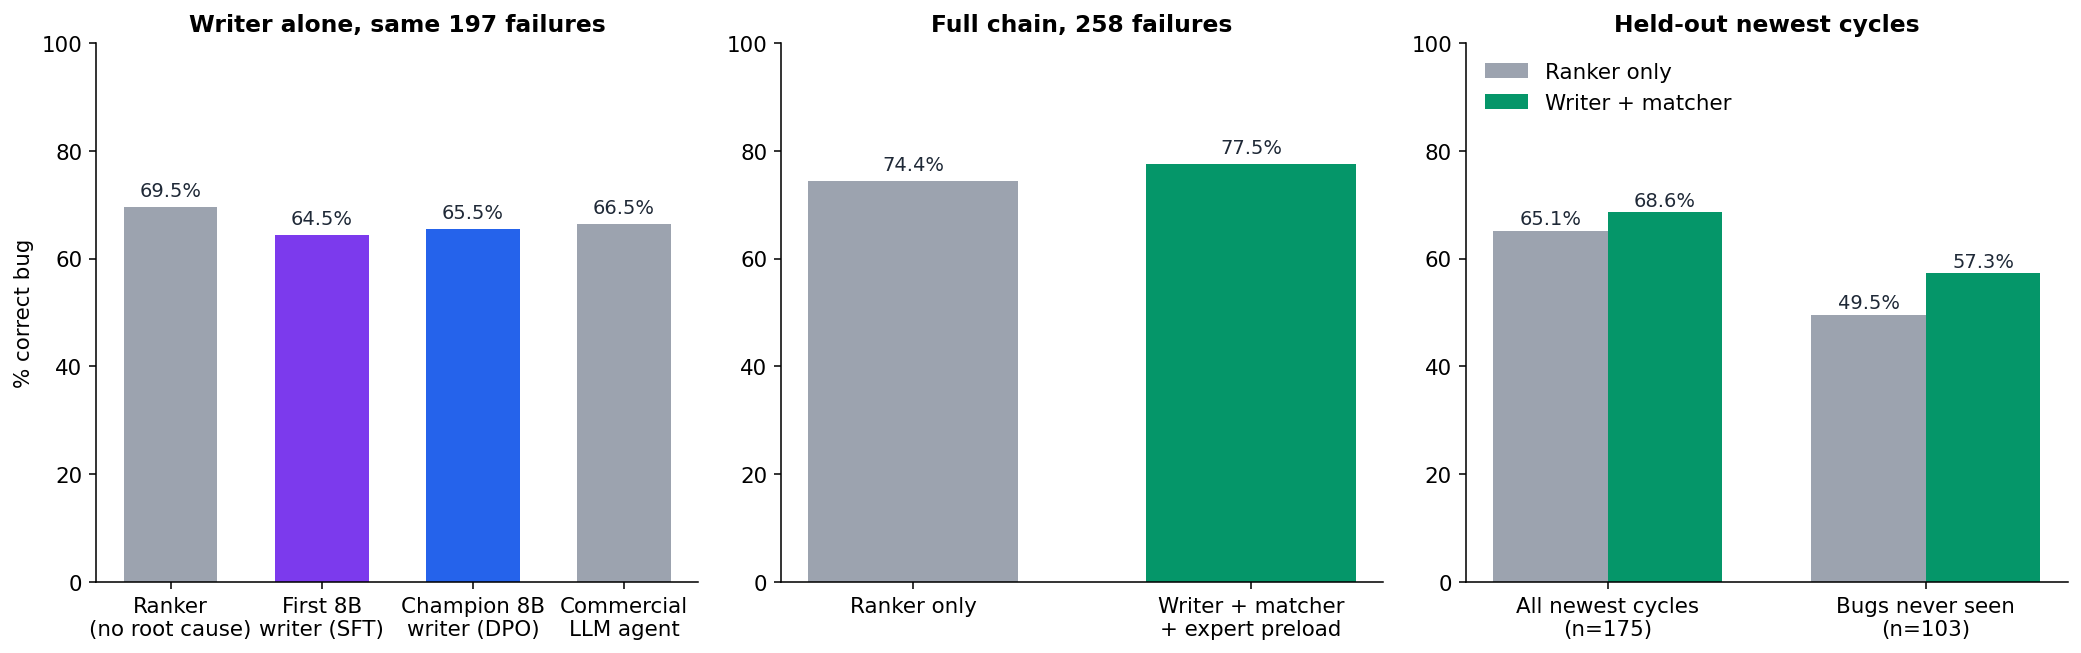
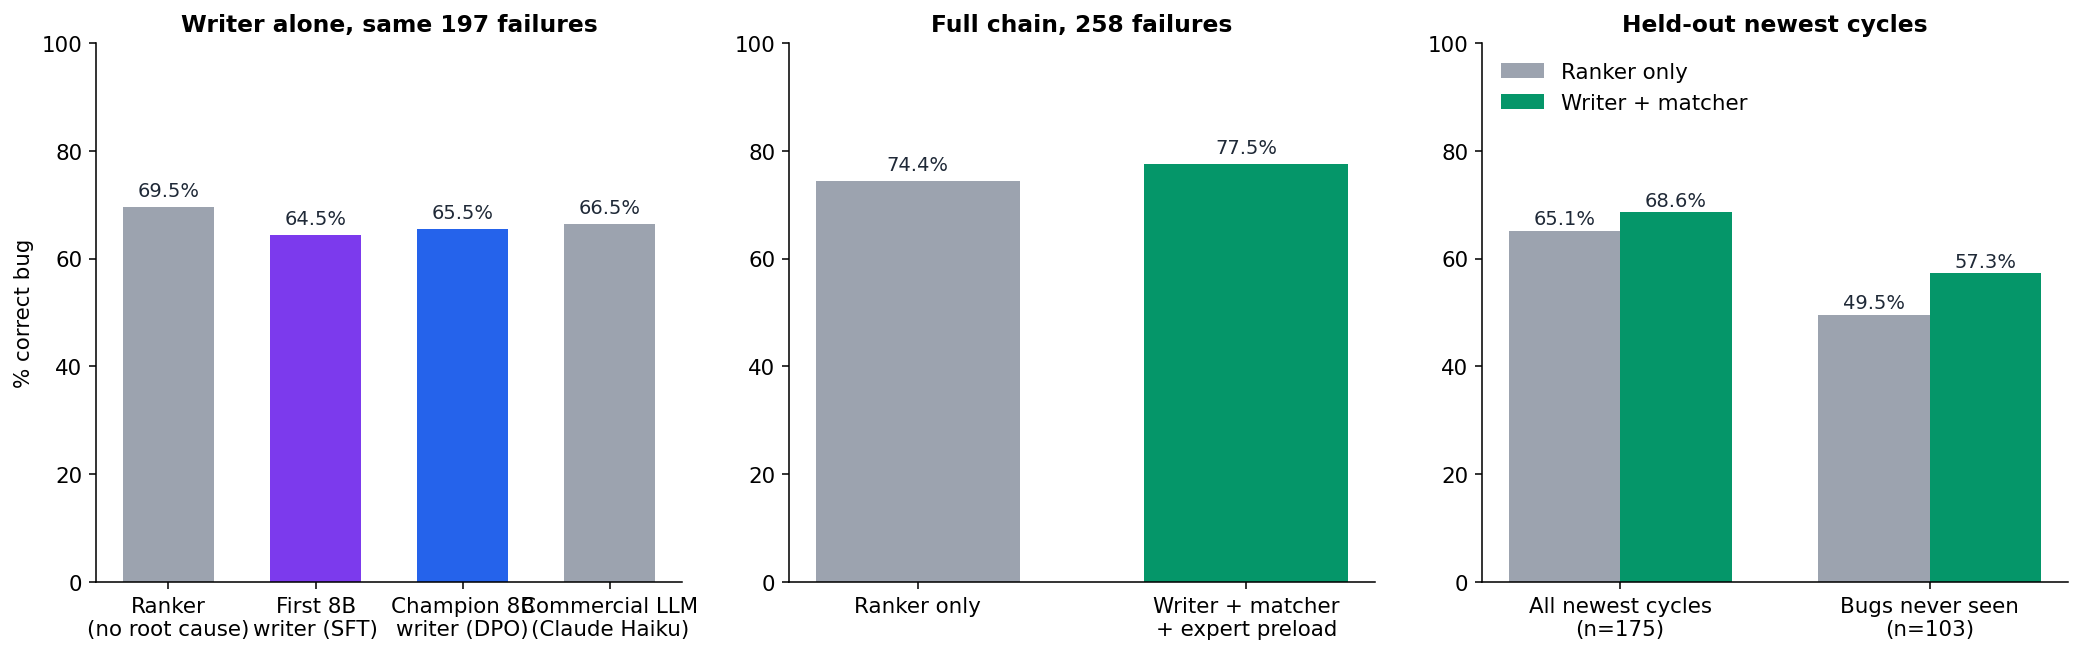
comercial models used

diff --git a/expert-debugger/00-architecture/make_figures.py b/expert-debugger/00-architecture/make_figures.py
@@ -26,11 +26,11 @@ def bars(ax, labels, vals, colors, fmt="{:.1f}%", ymax=100):
 
 # 1. Headline: held-out test set, 119 bug-linked failures (same failures for every system)
 fig, ax = plt.subplots(1, 2, figsize=(12, 4.6))
-lab = ["No-LLM\nranker", "Commercial LLM\nagent + gate", "Local 8B\nmatcher", "Local 8B\nmatcher + gate"]
+lab = ["No-LLM\nranker", "Commercial LLM\n(Claude) + gate", "Local 8B\nmatcher", "Local 8B\nmatcher + gate"]
 bars(ax[0], lab, [83 / 119 * 100, 87 / 119 * 100, 88 / 119 * 100, 92 / 119 * 100], [MUTED, ACC2, ACC, GOOD])
 ax[0].set_title("Top-1 correct bug, held-out test (n=119)")
 ax[0].set_ylabel("% of failures")
-bars(ax[1], ["No-LLM ranker", "Commercial LLM\nagent", "Local 8B matcher"], [46 / 72 * 100, 30 / 72 * 100, 48 / 72 * 100], [MUTED, ACC2, ACC])
+bars(ax[1], ["No-LLM ranker", "Commercial LLM\n(Claude)", "Local 8B matcher"], [46 / 72 * 100, 30 / 72 * 100, 48 / 72 * 100], [MUTED, ACC2, ACC])
 ax[1].set_title("Bugs never seen in training (n=72)")
 save(fig, "00-architecture", "fig-headline.png")
 
@@ -42,7 +42,7 @@ ax.plot(steps, [v / 119 * 100 for v in vals], marker="o", lw=2.5, color=ACC)
 for i, v in enumerate(vals):
     ax.annotate(f"{v / 119 * 100:.1f}%", (i, v / 119 * 100), textcoords="offset points", xytext=(0, 9), ha="center")
 ax.axhline(68 / 119 * 100, ls="--", color=ACC2)
-ax.text(3.05, 68 / 119 * 100 - 3.2, "commercial LLM agent", color=ACC2, ha="right", fontsize=9)
+ax.text(3.05, 68 / 119 * 100 - 3.2, "commercial LLM (Claude)", color=ACC2, ha="right", fontsize=9)
 ax.set_ylim(50, 85)
 ax.set_ylabel("top-1 correct (%)")
 ax.set_title("Bug matcher: four training iterations, same test set")

diff --git a/expert-debugger/00-architecture/make_fig_champion.py b/expert-debugger/00-architecture/make_fig_champion.py
@@ -19,7 +19,7 @@ def bars(ax, labels, vals, colors):
 
 
 fig, ax = plt.subplots(1, 3, figsize=(15, 4.8))
-bars(ax[0], ["Ranker\n(no root cause)", "First 8B\nwriter (SFT)", "Champion 8B\nwriter (DPO)", "Commercial\nLLM agent"],
+bars(ax[0], ["Ranker\n(no root cause)", "First 8B\nwriter (SFT)", "Champion 8B\nwriter (DPO)", "Commercial LLM\n(Claude Haiku)"],
      [137 / 197 * 100, 127 / 197 * 100, 129 / 197 * 100, 131 / 197 * 100], [MUTED, ACC2, ACC, MUTED])
 ax[0].set_title("Writer alone, same 197 failures")
 ax[0].set_ylabel("% correct bug")
@@ -42,7 +42,7 @@ fig.savefig(os.path.join(HERE, "fig-champion.png"), bbox_inches="tight")
 
 # Writer lineage: behaviour cloning only vs the DPO champion, same 197 failures
 fig, ax = plt.subplots(1, 3, figsize=(14, 4.4))
-bars(ax[0], ["First writer\n(SFT only)", "Champion\n(SFT + DPO)", "Commercial\nLLM agent"], [127 / 197 * 100, 129 / 197 * 100, 131 / 197 * 100],
+bars(ax[0], ["First writer\n(SFT only)", "Champion\n(SFT + DPO)", "Commercial LLM\n(Claude Haiku)"], [127 / 197 * 100, 129 / 197 * 100, 131 / 197 * 100],
      [ACC2, ACC, MUTED])
 ax[0].set_title("Correct bug, 197 failures")
 bars(ax[1], ["First writer\n(SFT only)", "Champion\n(SFT + DPO)"], [80 / 119 * 100, 85 / 119 * 100], [ACC2, ACC])

diff --git a/expert-debugger/README.md b/expert-debugger/README.md
@@ -3,7 +3,7 @@
 An AI system that reads a failed validation run (logs, kernel traces, telemetry, test metadata) and either
 **links it to the known bug that caused it, explains the root cause, or declares it a new bug**.
 It combines classic ML, retrieval, a knowledge graph, an LLM agent graph and a fine-tuned LLM judge,
-trained on several years of human triage decisions. Every model is **served on local GPUs at zero API cost**.
+trained on 100+ tests debugged by engineers. Every model is **served on local GPUs at zero API cost**.
 
 **Deployed and available to debuggers.** The system is integrated into the validation team's triage web app, where debuggers use it daily
 on live failures. A guided flow walks them from noise filtering to known issues, the agent's root cause and new issues,
@@ -50,12 +50,16 @@ and improves accuracy on every board, most on bugs the system has never seen.
 
 ### Current system: latest champions (frozen 2026-11-09, wired and evaluated through 2026-11-19)
 
+**Commercial reference.** The reference is **Claude Haiku**. Iterations with a larger Claude model (Sonnet) performed the same as Haiku, so Haiku was used for the full 200-failure runs to avoid the extra API cost per failure.
+It is a single LLM call placed in the **same agent-graph node** as the local model, with the same prompts, evidence and verifier, **not** an off-the-shelf CLI coding agent with its own loop and file or shell tools, so the comparison isolates the model.
+The local writer **matches** it overall and **beats** it on bugs never seen in training.
+
 ![champion](00-architecture/fig-champion.png)
 
 | System | Failures | Correct | Accuracy | Notes |
 |---|---|---|---|---|
 | Classic ML ranker only | 197 | 137 | 69.5% | Suggests a known issue, no root cause |
-| Commercial LLM agent (reference) | 197 | 131 | 66.5% | API cost per call |
+| Commercial LLM (Claude Haiku, reference) | 197 | 131 | 66.5% | API cost per call |
 | **Local 8B writer, DPO champion** | 197 | **129** | **65.5%** | Tied with the commercial agent (128 vs 130 on 196 shared, McNemar p = 0.79), 0 API cost |
 | Classic ML ranker only | 258 | 192 | 74.4% | No LLM |
 | **Local writer + matcher + expert preload** | 258 | **200** | **77.5%** | +10 / −2 vs ranker only, p = 0.039 |
@@ -98,7 +102,7 @@ and a bad one, and is nudged to prefer the good. The first writer only imitates;
 | System | Top-1 correct | Unseen bugs (n=72) | API cost |
 |---|---|---|---|
 | No-LLM ranker (classic ML) | 69.7% | 63.9% | 0 |
-| Commercial LLM agent + confidence gate | 73.1% | 41.7% | per call |
+| Commercial LLM (Claude) + confidence gate | 73.1% | 41.7% | per call |
 | **Local fine-tuned 8B matcher** | **73.9%** | **66.7%** | **0** |
 | **Local 8B matcher + confidence gate** | **77.3%** | – | **0** |
 
@@ -145,7 +149,7 @@ flowchart LR
 | **Qwen3-8B** | Writer and matcher | Local open-weights base model |
 | **LLM agents** | RCA writer | Writes the evidence-cited root cause from a prepared evidence digest |
 | **Custom MCP server (Model Context Protocol)** | Tool layer, connected to the triage web app | Our own MCP server that gives the writer and verifier read-only access to the run's logs, kernel traces and metadata and lets them run several operations on them (windowed log reads, kernel-error search, fact extraction, pattern match). The same server backs the web app |
-| **Agent graph (LangGraph-style state machine)** | Investigation stage | Nodes, verify-revise loop, Done exit with a step cap |
+| **LangGraph (agent graph)** | Investigation stage | Nodes, verify-revise loop, Done exit with a step cap |
 | **vLLM** | Inference | High-throughput LLM serving engine (continuous batching, OpenAI-style API), one endpoint per model, no external API |
 | **Intel XPU GPUs** | Training and inference | All fine-tuning and serving run on Intel data-centre GPUs (XPU backend for PyTorch and vLLM) |
 | **RLHF-family experiments (GRPO, PPO, best-of-N, MCTS)** | Research track | Tested against the SFT + DPO champion, not adopted |
@@ -214,7 +218,7 @@ flowchart TB
 | **Writer** | Reads the evidence digest and writes the root cause as an ordered error chain, each link a verbatim log line | Qwen3-8B, 4-bit QLoRA, behaviour cloning then 3 rounds of DPO | 129 of 197, tied with a commercial agent at zero cost |
 | **Tool layer (custom MCP)** | A custom MCP server wired to the triage web app. Metadata, windowed log reader, kernel-error search over the whole run, typed fact extraction, cross-run pattern match | 7 tools, read-only, run-scoped, outputs capped | Lets the writer and verifier nodes reach the logs and chain several operations; builds the evidence they work from |
 | **Verifier** | Deterministic checks on the writer's answer: severe signatures never mentioned, evidence lines not found in the given evidence, test-content vs product contradictions | Plain code, free to run | Drives the revise loop |
-| **Agent graph loop** | `XP → Writer → Verifier → (Revise → Verifier)* → Done`. Exits when verified, stable, no valid output, or the step cap is hit | Explicit state machine, LangGraph-style, plain Python | Paired no-loop vs loop scoring on every run |
+| **Agent graph loop** | `XP → Writer → Verifier → (Revise → Verifier)* → Done`. Exits when verified, stable, no valid output, or the step cap is hit | Explicit state machine built with LangGraph | Paired no-loop vs loop scoring on every run |
 | **KG node** | Looks up deterministic facts per candidate bug (same test definition, stack, host, owner, filed before this run) and feeds them to the matcher | Graph queries, no model | Gold bug shares the test definition 58% of the time vs 9% for wrong candidates |
 | **Matcher** | Reads evidence, root cause and shortlist and picks one bug or NONE | Qwen3-8B, 4-bit QLoRA SFT, 8k context | 73.9% top-1, 66.7% on unseen bugs |
 | **Confidence gate** | Auto-link when sure, human review otherwise, new-bug draft on NONE | Calibrated thresholds | 85.4% precision on auto-links, 77.3% top-1 with the gate |

diff --git a/expert-debugger/05-rca-writer/README.md b/expert-debugger/05-rca-writer/README.md
@@ -12,7 +12,7 @@ The answer is hidden, so the writer has to find it in the evidence. *(Formerly c
 |---|---|---|---|
 | First local writer (behaviour cloning only) | 127 (64.5%) | 80 (67.2%) | 24 |
 | **Champion (behaviour cloning + 3 DPO rounds)** | **129 (65.5%)** | **85 (71.4%)** | **21** |
-| Commercial LLM agent (reference) | 131 (66.5%) | – | – |
+| Commercial LLM (Claude Haiku, reference) | 131 (66.5%) | – | – |
 
 The champion is **statistically tied with the commercial agent** (128 vs 130 on 196 shared failures, McNemar p = 0.79) at zero API cost.
 Inside the full chain it is what lifts the final answer to 77.5% on the main board.
